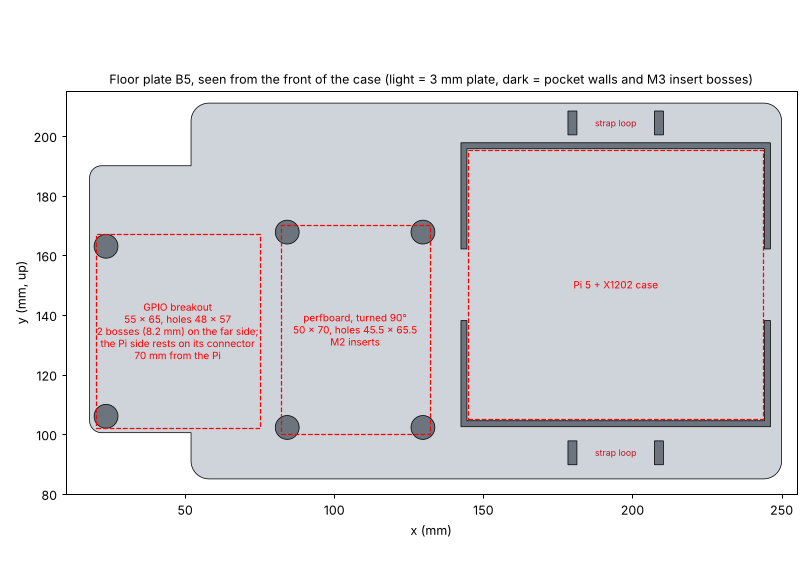
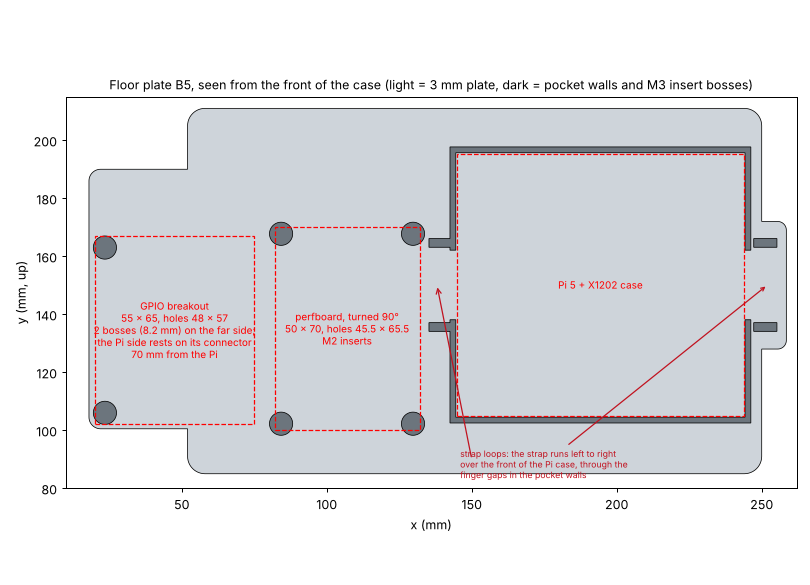
Floor plate: Pi strap runs left to right through the pocket's finger gaps
Loops on each side of the pocket at the finger gaps; small plate tab on
the right to carry the right loop. 0 clashes.

Claude-Session: https://claude.ai/code/session_015Mjdpdd6ef1wmGCnczCrjc

diff --git a/hardware/src/floorplate.py b/hardware/src/floorplate.py
@@ -9,6 +9,7 @@ FLOOR_Z=BASE_DEPTH-RIM_DROP
 FP_T=3.0
 FP=(52.0,85.0,250.0,211.0)              # x0,y0,x1,y1: clear of the post feet (x 21-47 / 255.5-281.5) and the floor fillet
 FP_EXT=(18.0,100.5,56.0,190.0)          # extension to the left, between the left posts' feet (y 88.5-98.5 and 192-210)
+FP_TAB=(246.0,128.0,258.5,172.0)        # small tab on the right for the strap loop (clear of the right posts' feet and the sensor cradle)
 # Pi 5 + X1202-C1 case footprint and its pocket
 PI=(145.0,105.0,145.0+98.75,105.0+90.2)
 PK_CL,PK_WALL,PK_HT=0.5,2.0,6.0
@@ -31,7 +32,7 @@ def pb_holes():
     return [(cx+sx*PB_HX/2,cy+sy*PB_HY/2) for sx in (-1,1) for sy in (-1,1)]
 def build_floor_plate():
     z1=FLOOR_Z; z0=z1-FP_T
-    outline=rrect(FP[2]-FP[0],FP[3]-FP[1],6.0,(FP[0]+FP[2])/2,(FP[1]+FP[3])/2)+rrect(FP_EXT[2]-FP_EXT[0],FP_EXT[3]-FP_EXT[1],4.0,(FP_EXT[0]+FP_EXT[2])/2,(FP_EXT[1]+FP_EXT[3])/2)
+    outline=rrect(FP[2]-FP[0],FP[3]-FP[1],6.0,(FP[0]+FP[2])/2,(FP[1]+FP[3])/2)+rrect(FP_EXT[2]-FP_EXT[0],FP_EXT[3]-FP_EXT[1],4.0,(FP_EXT[0]+FP_EXT[2])/2,(FP_EXT[1]+FP_EXT[3])/2)+rrect(FP_TAB[2]-FP_TAB[0],FP_TAB[3]-FP_TAB[1],3.0,(FP_TAB[0]+FP_TAB[2])/2,(FP_TAB[1]+FP_TAB[3])/2)
     p=Manifold.extrude(outline,FP_T).translate([0,0,z0])
     # Pi pocket walls
     a=PI[0]-PK_CL; b=PI[1]-PK_CL; c=PI[2]+PK_CL; d=PI[3]+PK_CL
@@ -40,12 +41,13 @@ def build_floor_plate():
     for y in ((b+d)/2,):
         wall=wall-box(a-PK_WALL-1,y-12,z0-PK_HT-1,a+0.1,y+12,z0+0.01)-box(c-0.1,y-12,z0-PK_HT-1,c+PK_WALL+1,y+12,z0+0.01)
     p=p+wall
-    xc=(PI[0]+PI[2])/2
-    for yc in ((FP[1]+b-PK_WALL)/2,(d+PK_WALL+FP[3])/2):       # centred in the strips below and above the pocket
-        for sx in (-1,1):
-            x0=xc+sx*STRAP_W/2; x1=x0+sx*3.0
-            p=p+box(min(x0,x1),yc-STRAP_LEN/2,z0-STRAP_GAP-STRAP_BAR,max(x0,x1),yc+STRAP_LEN/2,z0)
-        p=p+box(xc-STRAP_W/2-3.0,yc-STRAP_LEN/2,z0-STRAP_GAP-STRAP_BAR,xc+STRAP_W/2+3.0,yc+STRAP_LEN/2,z0-STRAP_GAP)
+    # strap runs left to right over the front of the Pi case, through the finger notches in the side walls
+    yc=(b+d)/2
+    for xl in ((PB[2]+4.0+a-PK_WALL)/2, c+PK_WALL+1.0+STRAP_LEN/2):     # left: between perfboard bosses and wall; right: on a plate tab
+        for sy in (-1,1):
+            y0=yc+sy*STRAP_W/2; y1=y0+sy*3.0
+            p=p+box(xl-STRAP_LEN/2,min(y0,y1),z0-STRAP_GAP-STRAP_BAR,xl+STRAP_LEN/2,max(y0,y1),z0)
+        p=p+box(xl-STRAP_LEN/2,yc-STRAP_W/2-3.0,z0-STRAP_GAP-STRAP_BAR,xl+STRAP_LEN/2,yc+STRAP_W/2+3.0,z0-STRAP_GAP)
     for holes,h,d,l in ((pb_holes(),BOSS_H,M2_D,M2_L),(bo_holes(),BO_BOSS_H,INS_D,INS_L)):
         for x,y in holes:
             p=p+Manifold.cylinder(h,BOSS_D/2,BOSS_D/2,40).translate([x,y,z0-h])
@@ -62,9 +64,10 @@ def draw(fn):
         ax.add_patch(PathPatch(Path(v,cd),fc=c,ec='k',lw=0.6))
     for lab,(x0,y0,x1,y1) in [('Pi 5 + X1202 case',PI),('perfboard, turned 90°\n50 × 70, holes 45.5 × 65.5\nM2 inserts',PB),('GPIO breakout\n55 × 65, holes 48 × 57\n2 bosses (8.2 mm) on the far side;\nthe Pi side rests on its connector\n70 mm from the Pi',BO)]:
         ax.add_patch(plt.Rectangle((x0,y0),x1-x0,y1-y0,fc='none',ec='r',ls='--')); ax.text((x0+x1)/2,(y0+y1)/2,lab,ha='center',va='center',fontsize=8,color='r')
-    xc=(PI[0]+PI[2])/2
-    for yy in (93.8,204.3): ax.text(xc,yy,'strap loop',ha='center',va='center',fontsize=7,color='#c1121f')
-    ax.set_xlim(10,255); ax.set_ylim(80,215); ax.set_aspect('equal'); ax.set_xlabel('x (mm)'); ax.set_ylabel('y (mm, up)')
+    yc=(PI[1]+PI[3])/2
+    ax.annotate('strap loops: the strap runs left to right\nover the front of the Pi case, through the\nfinger gaps in the pocket walls',xy=(252,yc),xytext=(146,83.5),fontsize=7,color='#c1121f',arrowprops=dict(arrowstyle='->',color='#c1121f'))
+    ax.annotate('',xy=(138,yc),xytext=(150,90),arrowprops=dict(arrowstyle='->',color='#c1121f'))
+    ax.set_xlim(10,262); ax.set_ylim(80,215); ax.set_aspect('equal'); ax.set_xlabel('x (mm)'); ax.set_ylabel('y (mm, up)')
     ax.set_title('Floor plate B5, seen from the front of the case (light = 3 mm plate, dark = pocket walls and M3 insert bosses)',fontsize=10)
     fig.tight_layout(); fig.savefig(fn,dpi=90)
 if __name__=='__main__':

diff --git a/hardware/README.md b/hardware/README.md
@@ -69,7 +69,7 @@ The KVM remote button lives in the open pocket at the left end of the lid's hing
 4. **Panels.** The halves print back face down, so the visible front is the top surface. Dry-fit the dovetails, then epoxy the halves face down on a flat surface. Glue the splice strip behind the base-panel seam above the window.
 5. **Lid.** The cradle halves can be dry-fitted. Screw the overlay onto the cradle, drop the assembly into the lid so the overlay centres it, then fix it with VHB (or Dual Lock if you want it removable). The roughly 6 mm gap around the cradle is intentional; it clears the lid's tapered walls and curved floor edge.
 6. **PMS7003 sensor.** Fit the adapter board and Dupont plugs first. The cradle is built for the board lying on the label face (3.5 mm above it), overhanging the inlet face by 6.5 mm and the board end by 9 mm, with the plugs mid-thickness in front of the inlet face, pointing at the panel. The front of the cradle has two chambers split by a rib: the outlet chamber, and an inlet chamber that also holds the plugs. Drop the sensor in from the back, face first, with the board on the side where the sleeve wall is open, feeding the wires out through the slot in the inlet chamber's end wall. Hold it in with a cable tie round the sleeve and over the sensor's back, between the guide ridges. Then seal it so it only breathes through the louvres: foam gasket round the lip, and foam or putty in the wire slot and the small notch where the header pins pass. See [docs/pms7003_cradle.png](docs/pms7003_cradle.png).
-6b. **Pi.** Drop the Pi case into its pocket and hold it down with a 20 mm hook-and-loop strap threaded under the two loops above and below the pocket and over the top of the case. Keep the strap clear of the Pi's ports.
+6b. **Pi.** Drop the Pi case into its pocket and hold it down with a 20 mm hook-and-loop strap: thread it under the loop on the left, through the finger gap in the pocket wall, across the front of the Pi case, out through the right-hand gap and under the right loop. Keep it clear of the Pi's ports.
 7. **KVM.** Stick the 2 mm spacer (B5) to the back of the screen case with VHB, centred about 40 mm in from the screen's left edge and 50 mm down from its top, then stick the KVM onto it with its console edge (HDMI, USB-A) facing the top of the case and its built-in cables facing down. The spacer lifts it clear of the top-left screen clamp. Use right-angle HDMI and USB-A plugs on the console side, and coil the spare host cable over the perfboard, not the breakout. See [docs/internal_layout.png](docs/internal_layout.png).
 8. **Kickstands.** Glue the hinge plates (35 × 40 mm) to flat areas with the pivot about 75 mm up the back of the case, one each side.
 
